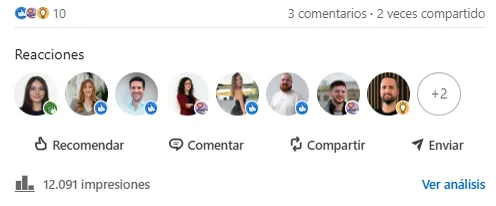
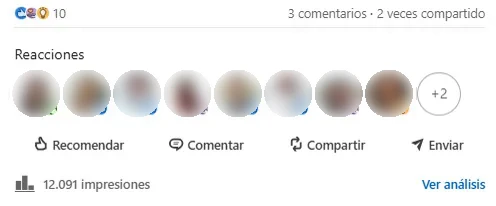
Create Rabbithole-post-mortem blog-post

Changed region(s): [[0.0302, 0.3204, 0.8468, 0.5825]]

diff --git a/content/blog/2026-10-28-rabbithole-post-mortem.es.md b/content/blog/2026-10-28-rabbithole-post-mortem.es.md
@@ -1,0 +1,114 @@
++++
+title = "RabbitHole: el post-mortem"
+template = "blog-post.html"
+description = "Lo que aprendí sobre desarrollo de producto lanzando mi primer SaaS"
+[taxonomies]
+tags = ["product"]
+[extra]
+series = "rabbithole"
+cover_image = "/images/blog/2026-10-25-rabbithole-post-mortem/cover.png"
++++
+
+![blog-cover](/images/blog/2026-10-25-rabbithole-post-mortem/cover.png)
+
+> **TL;DR**
+> - Lancé RabbitHole en LinkedIn con una promoción de **35 €**. Llegó a **12.091** impresiones, algunas personas lo probaron y **nadie compró ni una zanahoria**.
+> - El problema no fue la parte técnica, sino las decisiones de producto: un usuario objetivo difuso, un MVP de dos años, cero métricas de conversión y una validación que solo venía de amigos.
+> - La próxima vez: un usuario, un problema, una hipótesis y medirlo todo desde el primer día.
+
+---
+
+<p>El día del lanzamiento tenía una cuenta de Stripe, tres planes de precios, un tráiler y un conejo con cascos.</p>
+
+<p>Unas semanas después tenía doce mil impresiones y cero euros.</p>
+
+<p>Si aún no lo has leído, en <a class="link-text" href="/es/blog/building-rabbithole/"><b>Cómo construí RabbitHole</b></a> cuento cómo nació el producto. Este post va de lo que pasó cuando se topó con el mundo real, y de los errores que solo veo ahora que ha terminado. Lo escribo porque un post-mortem solo vale lo que vale su honestidad, y porque prefiero no cometer ninguno de estos errores dos veces.</p>
+
+---
+
+<h4>El lanzamiento</h4>
+
+<p>Anuncié RabbitHole en un post de LinkedIn: el problema (aprender en una ventana de chat infinita es un caos), la solución (guías estructuradas con analogías, flashcards, tests y pódcasts), el enlace y el tráiler de un minuto. Después pagué <b>35 €</b> para promocionarlo entre un público de habla inglesa en España.</p>
+
+<figure class="post-figure post-figure--narrow">
+  <img src="/images/blog/2026-10-25-rabbithole-post-mortem/linkedin-post.webp" alt="Post de LinkedIn que anuncia RabbitHole con el tráiler en vídeo" width="499" height="802">
+</figure>
+
+<p>Este fue el resultado:</p>
+
+<figure class="post-figure">
+  <img src="/images/blog/2026-10-25-rabbithole-post-mortem/linkedin-impressions.webp" alt="Estadísticas de LinkedIn: 10 reacciones, 3 comentarios, 2 veces compartido y 12.091 impresiones" width="496" height="206">
+  <figcaption>12.091 impresiones, 10 reacciones, 3 comentarios, 2 veces compartido.</figcaption>
+</figure>
+
+<p>Doce mil personas vieron el post. Algunas abrieron la app y la probaron. <b>Nadie compró zanahorias.</b></p>
+
+---
+
+<h4>Lo que salió bien</h4>
+
+<p>Empiezo por lo bueno, porque lo hay, y no es poco.</p>
+
+<p><b>Construí un SaaS completo yo solo.</b> Cuentas, base de datos, tres modos de IA, pagos, pódcasts, una landing, una demo pública y una batería de tests. Hace dos años tenía un dashboard en React con botones tipo sonar. Por el camino aprendí más sobre integración de IA, UI/UX y pagos de lo que me habría enseñado cualquier curso, porque cada lección venía con un bug que tenía que arreglar yo.</p>
+
+<p>Y ahora el proyecto está en mi CV (jeje).</p>
+
+---
+
+<h4>Lo que salió mal</h4>
+
+<p>Como producto, no funcionó. Lo cual, todo sea dicho, es lo que les pasa a casi todos los primeros productos. Lo interesante no es si fracasó, sino <b>por qué</b>, y, tras varias semanas dándole vueltas, siempre acabo en las mismas cuatro razones.</p>
+
+<b>1. "Gente curiosa" no es un usuario objetivo</b>
+
+<p>RabbitHole era para gente curiosa. Suena a público objetivo, pero es un estado de ánimo. Todo el mundo siente curiosidad por algo, así que nadie en concreto se levanta por la mañana pensando "necesito RabbitHole".</p>
+
+<p>El producto estaba a medio camino entre <b>ChatGPT</b>, que es para todo el mundo, y <b>NotebookLM</b>, que es para estudiantes que trabajan con su propio material. Y a una persona normal le costaba imaginar el momento exacto en el que abriría RabbitHole en vez de preguntarle directamente a ChatGPT. Si yo no soy capaz de describir ese momento en una frase, alguien que está haciendo scroll en LinkedIn no lo va a adivinar por mí.</p>
+
+<p>Lo irónico es que StudyMesh, la versión anterior, tenía un público mucho más claro: <b>un estudiante a una semana de un examen</b>. Eso es una persona, con una fecha límite y un problema. Quise hacer la idea más grande abriéndola a todo el mundo, y lo único que conseguí fue que nadie la necesitara.</p>
+
+<b>2. Un MVP que tardó dos años</b>
+
+<p>Un MVP debería responder a una pregunta de la forma más barata posible: <i>¿alguien necesita esto?</i> El mío pasó dos años respondiendo a otra: <i>¿qué más puedo construir?</i></p>
+
+<p>Nunca puse por escrito una hipótesis. Cada versión salía de la anterior, a base de experimentar y de la idea que me tuviera enganchado ese mes: widgets con IA, luego rutas de estudio, luego mascotas, luego pódcasts. Durante largas temporadas no tenía nada concreto que validar, así que construía la siguiente funcionalidad. Y así es como el desarrollo deja de ser iteración validada y se convierte en experimentación sin rumbo.</p>
+
+<p>Todo lo que importa de RabbitHole (una guía explicada a partir de lo que ya sabes) se podría haber probado en <b>un par de meses</b>. Las zanahorias podían esperar.</p>
+
+<b>3. Sin métricas no hay respuestas</b>
+
+<p>Esta es la que más me duele, porque era muy fácil de evitar.</p>
+
+<p>No medí el embudo de conversión: <b>visita a la landing → registro → primera guía creada</b>. Sin eso, 12.091 impresiones son solo un número. ¿La gente vio el post y no hizo clic? ¿Hizo clic, vio la landing y se fue? ¿Se registró y nunca creó una guía? ¿Creó una y no volvió? Cada caso tiene una solución completamente distinta, y <b>no tengo ni idea de cuál fue</b>.</p>
+
+<p>Doce mil impresiones, y lo único que he aprendido de ellas es que debería haberlas medido.</p>
+
+<b>4. Validación a golpe de WhatsApp</b>
+
+<p>Mi feedback venía de un grupo de WhatsApp: mis tres hermanos, todos desarrolladores, y seis o siete amigos. Son listos, sinceros y generosos con su tiempo. Pero <b>no eran el usuario objetivo</b>, y la gente que te quiere no es la más indicada para decirte que tu producto no hace falta.</p>
+
+<p>Echando la vista atrás, el feedback más valioso que recibí fue el primero, sobre AquaMesh: <i>buena idea, pero poco práctica</i>. Respondí cambiándole el nombre al producto y añadiéndole IA. Lo que debería haber hecho es sentarme con estudiantes de verdad, preguntarles cómo estudian realmente y construir lo mínimo que les ayudara con eso.</p>
+
+---
+
+<h4>Qué haría diferente</h4>
+
+1. **Elegir un usuario concreto.** No "gente curiosa", sino alguien con nombre y apellidos, un momento concreto y un problema.
+2. **Construir el MVP en semanas, no en años**, y que valide un único problema central.
+3. **Escribir la hipótesis antes que el código.** Si no hay una hipótesis clara, la siguiente funcionalidad probablemente sea una apuesta a ciegas.
+4. **Medir la conversión desde el primer día:** visitas a la landing, registros y la primera acción real.
+5. **Validar con gente que encaje con el usuario objetivo**, no solo con amigos y familia.
+6. **Preocuparme tanto por el "porqué" como por el "cómo".** ¿Por qué alguien usaría esto en lugar de lo que ya usa?
+
+<p>Ese último punto es en el que estoy trabajando ahora. La ingeniería me enseñó <b>cómo</b> construir cosas; nunca me obligó a preguntarme <b>por qué</b> alguien las querría. Por eso me leí <a class="link-text" target="_blank" href="/es/readings/"><b>Escaping the Build Trap</b></a>, de Melissa Perri. La "build trap" es lo que pasa cuando un equipo mide el éxito por las funcionalidades que lanza en lugar de por el valor que aporta, y leerlo después de RabbitHole ha sido un poco incómodo, en el buen sentido. Yo era un equipo de una sola persona metido de lleno en esa trampa.</p>
+
+---
+
+<!-- Visual break before conclusion - changes based on time of year -->
+{{ seasonal_image() }}
+
+<p>RabbitHole no encontró a sus usuarios, pero a mí sí me ayudó a encontrar una forma mejor de trabajar: soy mejor desarrollador por haberlo construido, y tengo más visión de producto después de ver cómo no se vendía.</p>
+
+<p>La app sigue online y el conejo sigue respondiendo preguntas. Si te pica la curiosidad, <a class="link-text" target="_blank" href="https://rabbithole.cosmevalera.dev/try"><b>prueba una guía</b></a>: no hace falta registrarte.</p>
+
+<p>Y la próxima vez, lo primero que construya no será el producto. Será la pregunta.</p>

diff --git a/content/blog/2026-10-28-rabbithole-post-mortem.md b/content/blog/2026-10-28-rabbithole-post-mortem.md
@@ -32,7 +32,6 @@ cover_image = "/images/blog/2026-10-25-rabbithole-post-mortem/cover.png"
 
 <figure class="post-figure post-figure--narrow">
   <img src="/images/blog/2026-10-25-rabbithole-post-mortem/linkedin-post.webp" alt="LinkedIn post announcing RabbitHole with the trailer video" width="499" height="802">
-  <figcaption>The launch post. #buildinpublic, as one does.</figcaption>
 </figure>
 
 <p>Here is the result:</p>
@@ -101,7 +100,7 @@ cover_image = "/images/blog/2026-10-25-rabbithole-post-mortem/cover.png"
 5. **Validate with people who match the target user**, not only with friends and family.
 6. **Care about the "why" as much as the "how".** Why would someone use this instead of what they already use?
 
-<p>That last point is the one I'm working on now. Engineering taught me <b>how</b> to build things; it never forced me to ask <b>why</b> anyone would want them. That's why I'm reading <a class="link-text" target="_blank" href="/readings/"><b>Escaping the Build Trap</b></a> by Melissa Perri. The "build trap" is what happens when a team measures success by the features it ships instead of the value it delivers, and reading it after RabbitHole has been slightly uncomfortable, in a good way. I was a one-person team, stuck in the trap.</p>
+<p>That last point is the one I'm working on now. Engineering taught me <b>how</b> to build things; it never forced me to ask <b>why</b> anyone would want them. That's why I read <a class="link-text" target="_blank" href="/readings/"><b>Escaping the Build Trap</b></a> by Melissa Perri. The "build trap" is what happens when a team measures success by the features it ships instead of the value it delivers, and reading it after RabbitHole has been slightly uncomfortable, in a good way. I was a one-person team, stuck in the trap.</p>
 
 ---
 
